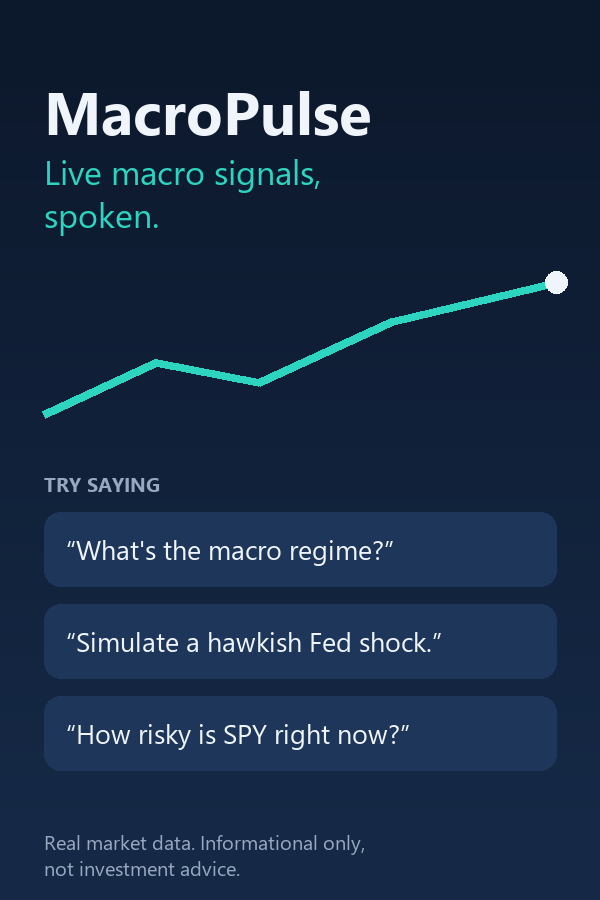
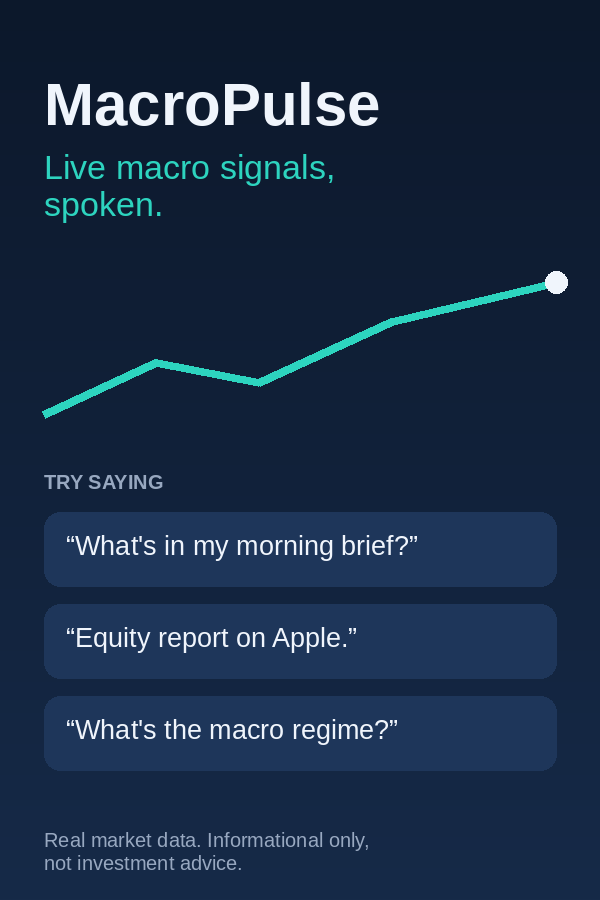
Prepare Alexa+ add-on listing for equity reports and the morning brief
- addon.json: short and full descriptions cover the morning brief (and
  Routines) and SEC-based equity reports; example phrases now lead with
  them and all three route to the right intents.
- Privacy policy: equity reports also look up public SEC EDGAR filings
  by ticker (the service identifies itself, as SEC requires, not the
  user); the old text said tickers only go to Yahoo Finance. Terms: fair
  values, levels and "Buy"/"Underweight" ratings are rule-based model
  outputs, not recommendations. Policy date moved to September 23, 2026;
  landing page lists the new tools.
- Carousel image regenerated with the new phrases; make_assets.py keeps
  them in PHRASES and falls back to Liberation/DejaVu fonts off Windows.

Claude-Session: https://claude.ai/code/session_01D8h8zfYcN6TEBBaDfJxcqw

diff --git a/src/alexa_mcp_server.py b/src/alexa_mcp_server.py
@@ -1003,7 +1003,7 @@ a{color:var(--accent)} footer{margin-top:28px;color:var(--muted);font-size:.85re
 """
 
 _CONTACT_URL = "https://github.com/sechan9999/macropulse-alexa-mcp/issues"
-_POLICY_UPDATED = "September 21, 2026"
+_POLICY_UPDATED = "September 23, 2026"
 
 
 def _page(title: str, body: str) -> str:
@@ -1023,8 +1023,9 @@ _PRIVACY_BODY = f"""<h1>Privacy Policy</h1>
 <p class="sub">MacroPulse Alexa+ MCP Server &middot; last updated {_POLICY_UPDATED}</p>
 <h2>What this service is</h2>
 <p>MacroPulse is a read-only information service. It answers questions about market conditions
-(macro regime, rates and spreads, portfolio risk simulations, FOMC scenarios) when an assistant such as Alexa+
-calls its tools. It has no user accounts and no sign-in.</p>
+(macro regime, rates and spreads, portfolio risk simulations, FOMC scenarios, a pre-market morning brief and
+equity reports on US-listed companies) when an assistant such as Alexa+ calls its tools. It has no user accounts
+and no sign-in.</p>
 <h2>What we receive</h2>
 <ul>
 <li>The tool request itself: the tool name and its arguments, for example a ticker symbol such as <code>SPY</code> or a scenario name.</li>
@@ -1036,6 +1037,9 @@ details or any other personal information. Please do not include personal inform
 <ul>
 <li>Requests are used only to compute the answer and return it to the caller.</li>
 <li>Ticker symbols are sent to a public market-data provider (Yahoo Finance) to fetch prices. Nothing else from your request is sent to it.</li>
+<li>For an equity report, the ticker is also used to look up the company's public filings at the U.S. Securities and
+Exchange Commission (SEC EDGAR). Those requests identify this service, as SEC rules require, not you; nothing else
+from your request is sent.</li>
 <li>Operational logs (errors, timing, request lines) are kept in the hosting provider logging service for troubleshooting and to keep the service reliable.</li>
 <li>We do not sell your data, use it for advertising, or build profiles of users.</li>
 </ul>
@@ -1054,7 +1058,9 @@ _TERMS_BODY = f"""<h1>Terms of Use</h1>
 <p>The service provides general market information and simulations. It is <strong>not investment, financial,
 tax or legal advice</strong> and is not a recommendation to buy or sell any security. Simulations (for example
 VaR or FOMC shock scenarios) rest on models and historical data and can be wrong. The expected-return tool
-returns a static reference estimate, not a forecast. Make your own decisions or consult a licensed professional.</p>
+returns a static reference estimate, not a forecast. Equity-report fair values, scenarios, price levels and
+ratings (for example "Buy" or "Underweight") are rule-based model outputs, not recommendations. Make your own
+decisions or consult a licensed professional.</p>
 <h2>Data and availability</h2>
 <ul>
 <li>Market data comes from third-party public sources and may be delayed, incomplete or unavailable. When live data cannot be fetched, the tools say so instead of guessing.</li>
@@ -1072,7 +1078,7 @@ inability to use, the service or from decisions made on its output.</p>
 <a href="{_CONTACT_URL}">{_CONTACT_URL}</a>. See also the <a href="/privacy">Privacy Policy</a>.</p>"""
 
 _LANDING_BODY = """<h1>MacroPulse Alexa+ MCP Server</h1>
-<p class="sub">Live macro-regime, rates, portfolio-risk and FOMC-shock tools for voice assistants and MCP clients. <span class="ok">status: ok</span></p>
+<p class="sub">Live macro-regime, rates, portfolio-risk, FOMC-shock, morning-brief and equity-report tools for voice assistants and MCP clients. <span class="ok">status: ok</span></p>
 <h2>MCP endpoint (Streamable HTTP)</h2>
 <code class="url">{mcp_url}</code>
 <h2>Tools</h2>

diff --git a/addon-package/make_assets.py b/addon-package/make_assets.py
@@ -9,14 +9,22 @@ from PIL import Image, ImageDraw, ImageFont
 OUT = Path(__file__).parent / "assets"
 ICON_SIZES = (72, 64, 88, 126, 180, 241)
 NAVY, NAVY2, TEAL, WHITE, MUTED = (12, 24, 43), (22, 42, 72), (45, 212, 191), (240, 245, 252), (152, 168, 192)
-FONT_BOLD, FONT = "C:/Windows/Fonts/segoeuib.ttf", "C:/Windows/Fonts/segoeui.ttf"
+# First font found wins: Segoe UI on Windows, Liberation Sans / DejaVu Sans on Linux.
+FONT_BOLD = ("C:/Windows/Fonts/segoeuib.ttf", "/usr/share/fonts/truetype/liberation/LiberationSans-Bold.ttf",
+             "/usr/share/fonts/truetype/dejavu/DejaVuSans-Bold.ttf")
+FONT = ("C:/Windows/Fonts/segoeui.ttf", "/usr/share/fonts/truetype/liberation/LiberationSans-Regular.ttf",
+        "/usr/share/fonts/truetype/dejavu/DejaVuSans.ttf")
+# Keep in sync with storeListing.locales.en-US.examplePhrases in addon.json.
+PHRASES = ["What's in my morning brief?", "Equity report on Apple.", "What's the macro regime?"]
 
 
-def font(path: str, size: int) -> ImageFont.FreeTypeFont:
-    try:
-        return ImageFont.truetype(path, size)
-    except OSError:
-        return ImageFont.load_default(size)
+def font(paths: tuple, size: int) -> ImageFont.FreeTypeFont:
+    for path in paths:
+        try:
+            return ImageFont.truetype(path, size)
+        except OSError:
+            continue
+    return ImageFont.load_default(size)
 
 
 def gradient(w: int, h: int) -> Image.Image:
@@ -59,9 +67,8 @@ def carousel() -> Image.Image:
     d.text((44, 148), "Live macro signals,\nspoken.", font=font(FONT, 34), fill=TEAL, spacing=6)
     trend(d, (44, 270, w - 44, 430), width=8, dot=11)
     d.text((44, 470), "TRY SAYING", font=font(FONT_BOLD, 20), fill=MUTED)
-    phrases = ["What's the macro regime?", "Simulate a hawkish Fed shock.", "How risky is SPY right now?"]
     y = 512
-    for p in phrases:
+    for p in PHRASES:
         d.rounded_rectangle((44, y, w - 44, y + 74), radius=16, fill=(30, 54, 90))
         d.text((66, y + 18), f"\u201c{p}\u201d", font=font(FONT, 27), fill=WHITE)
         y += 92
